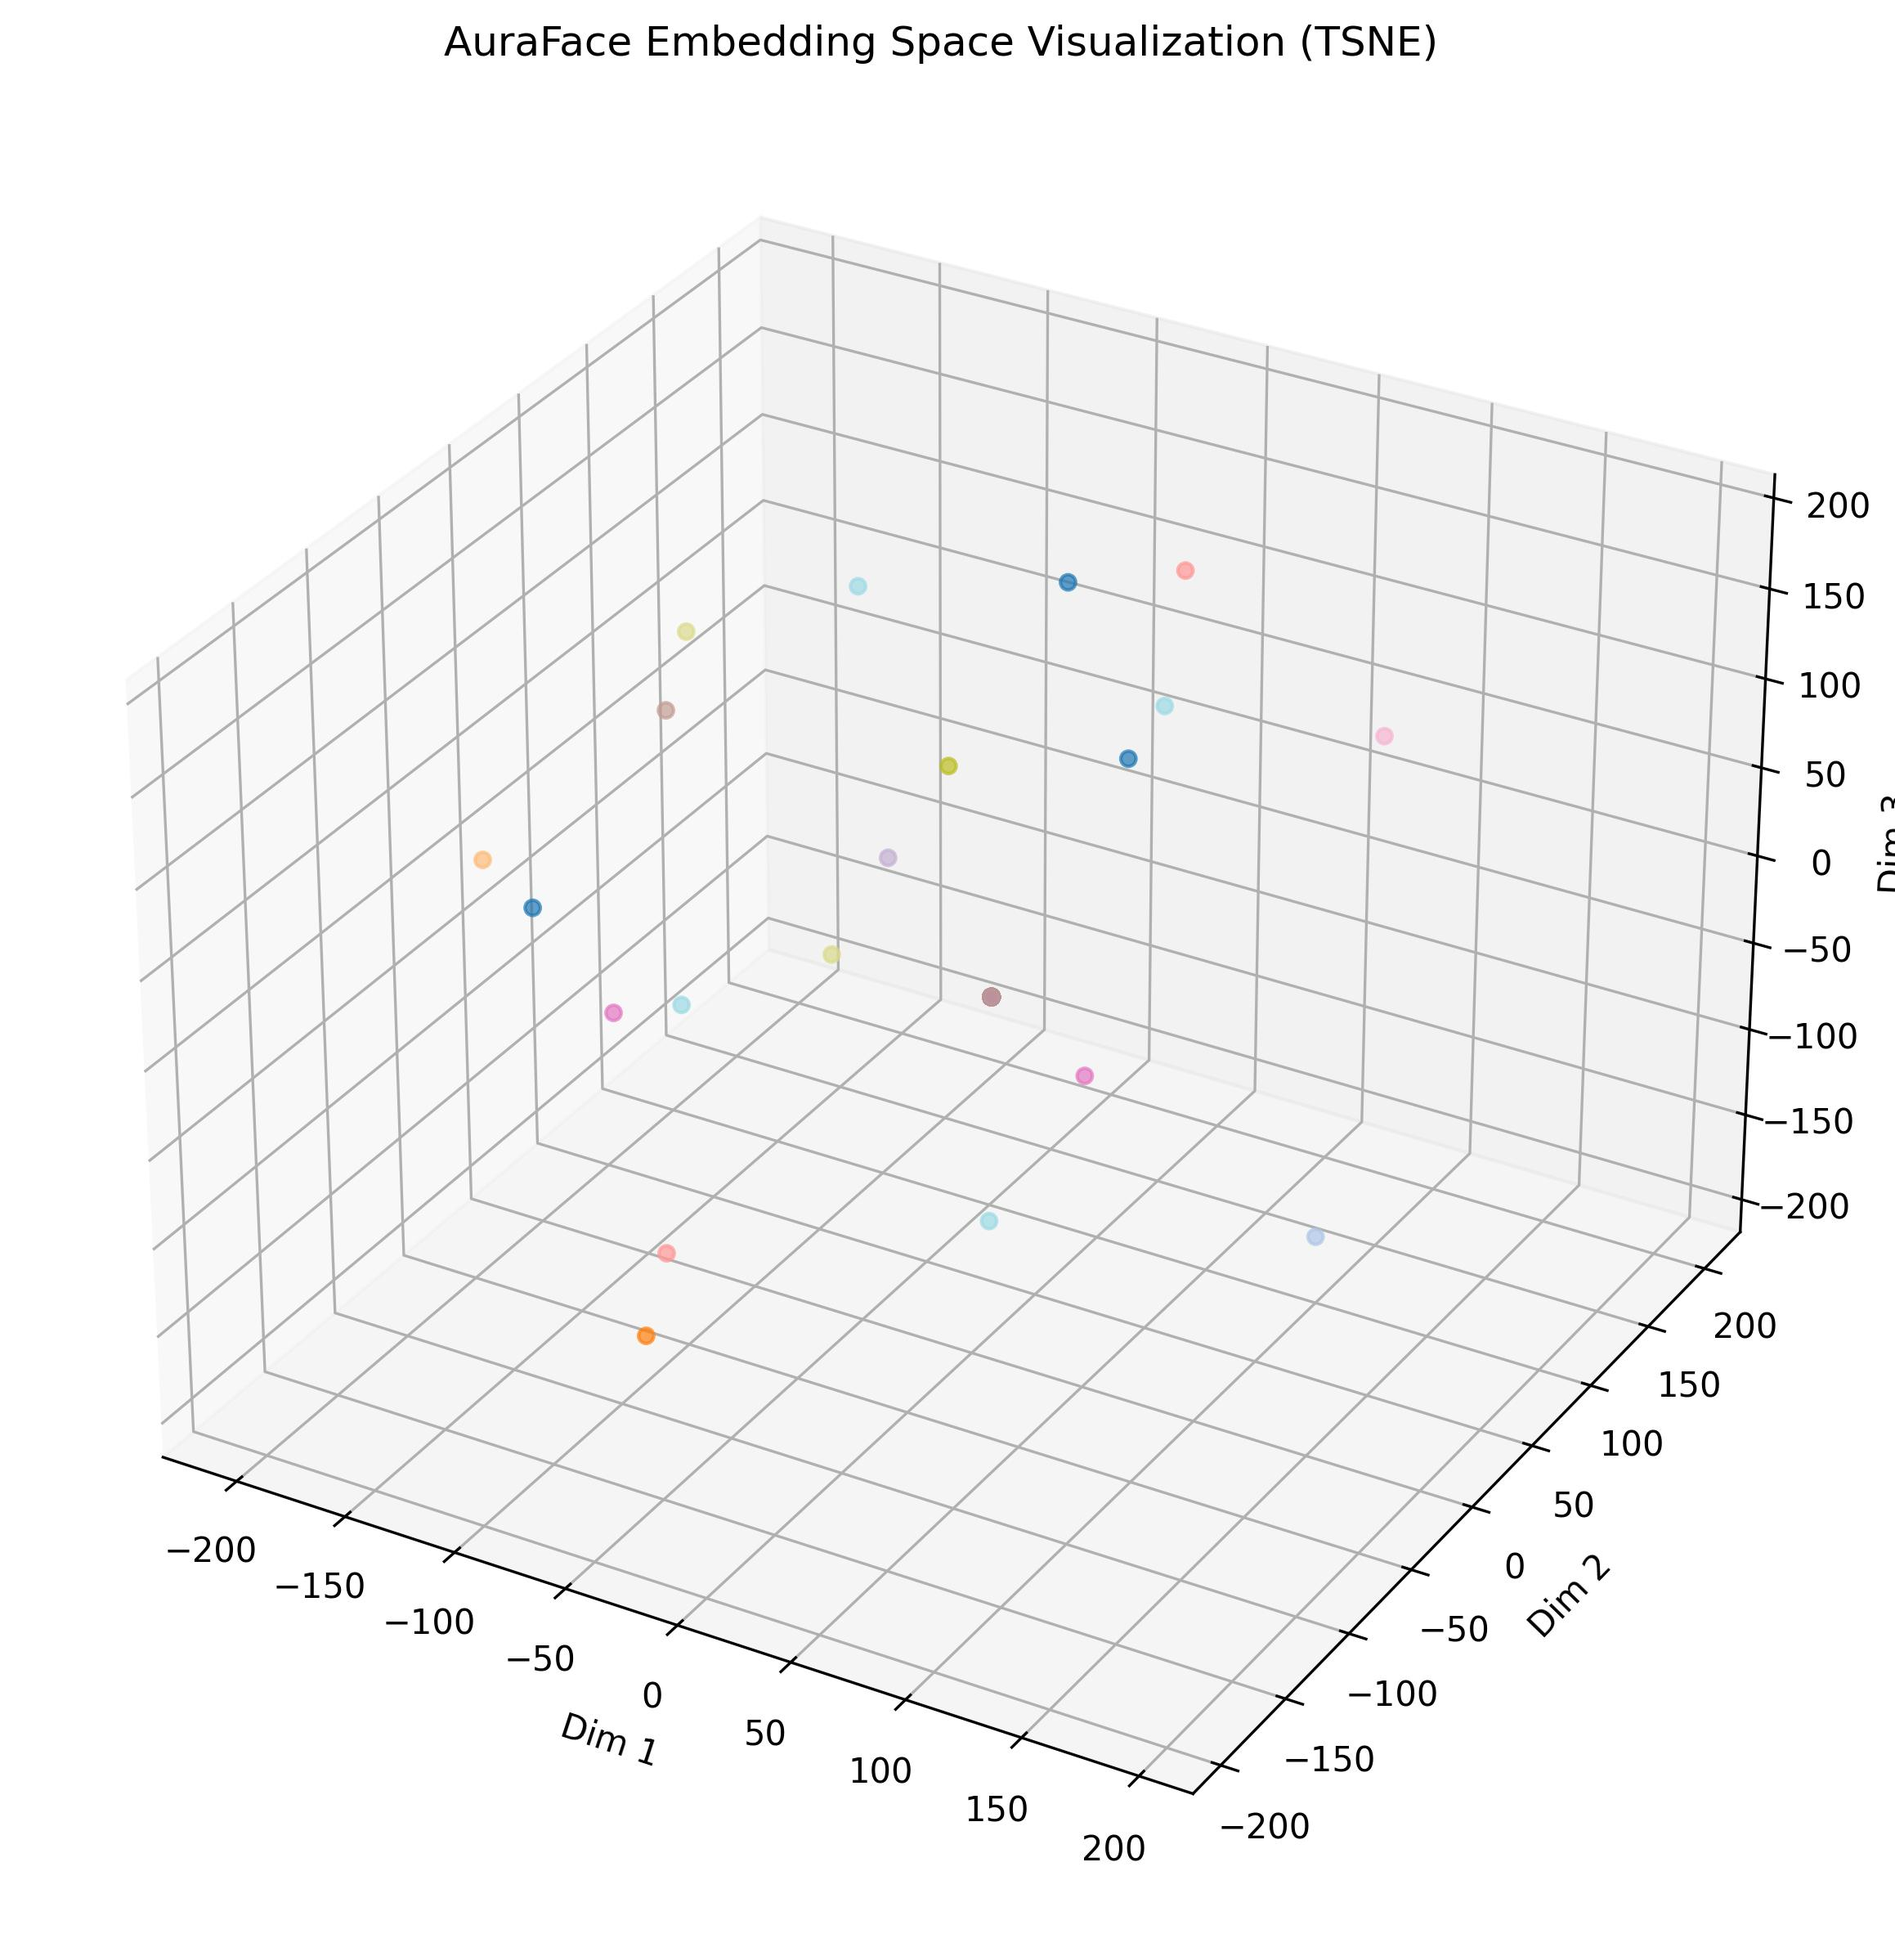
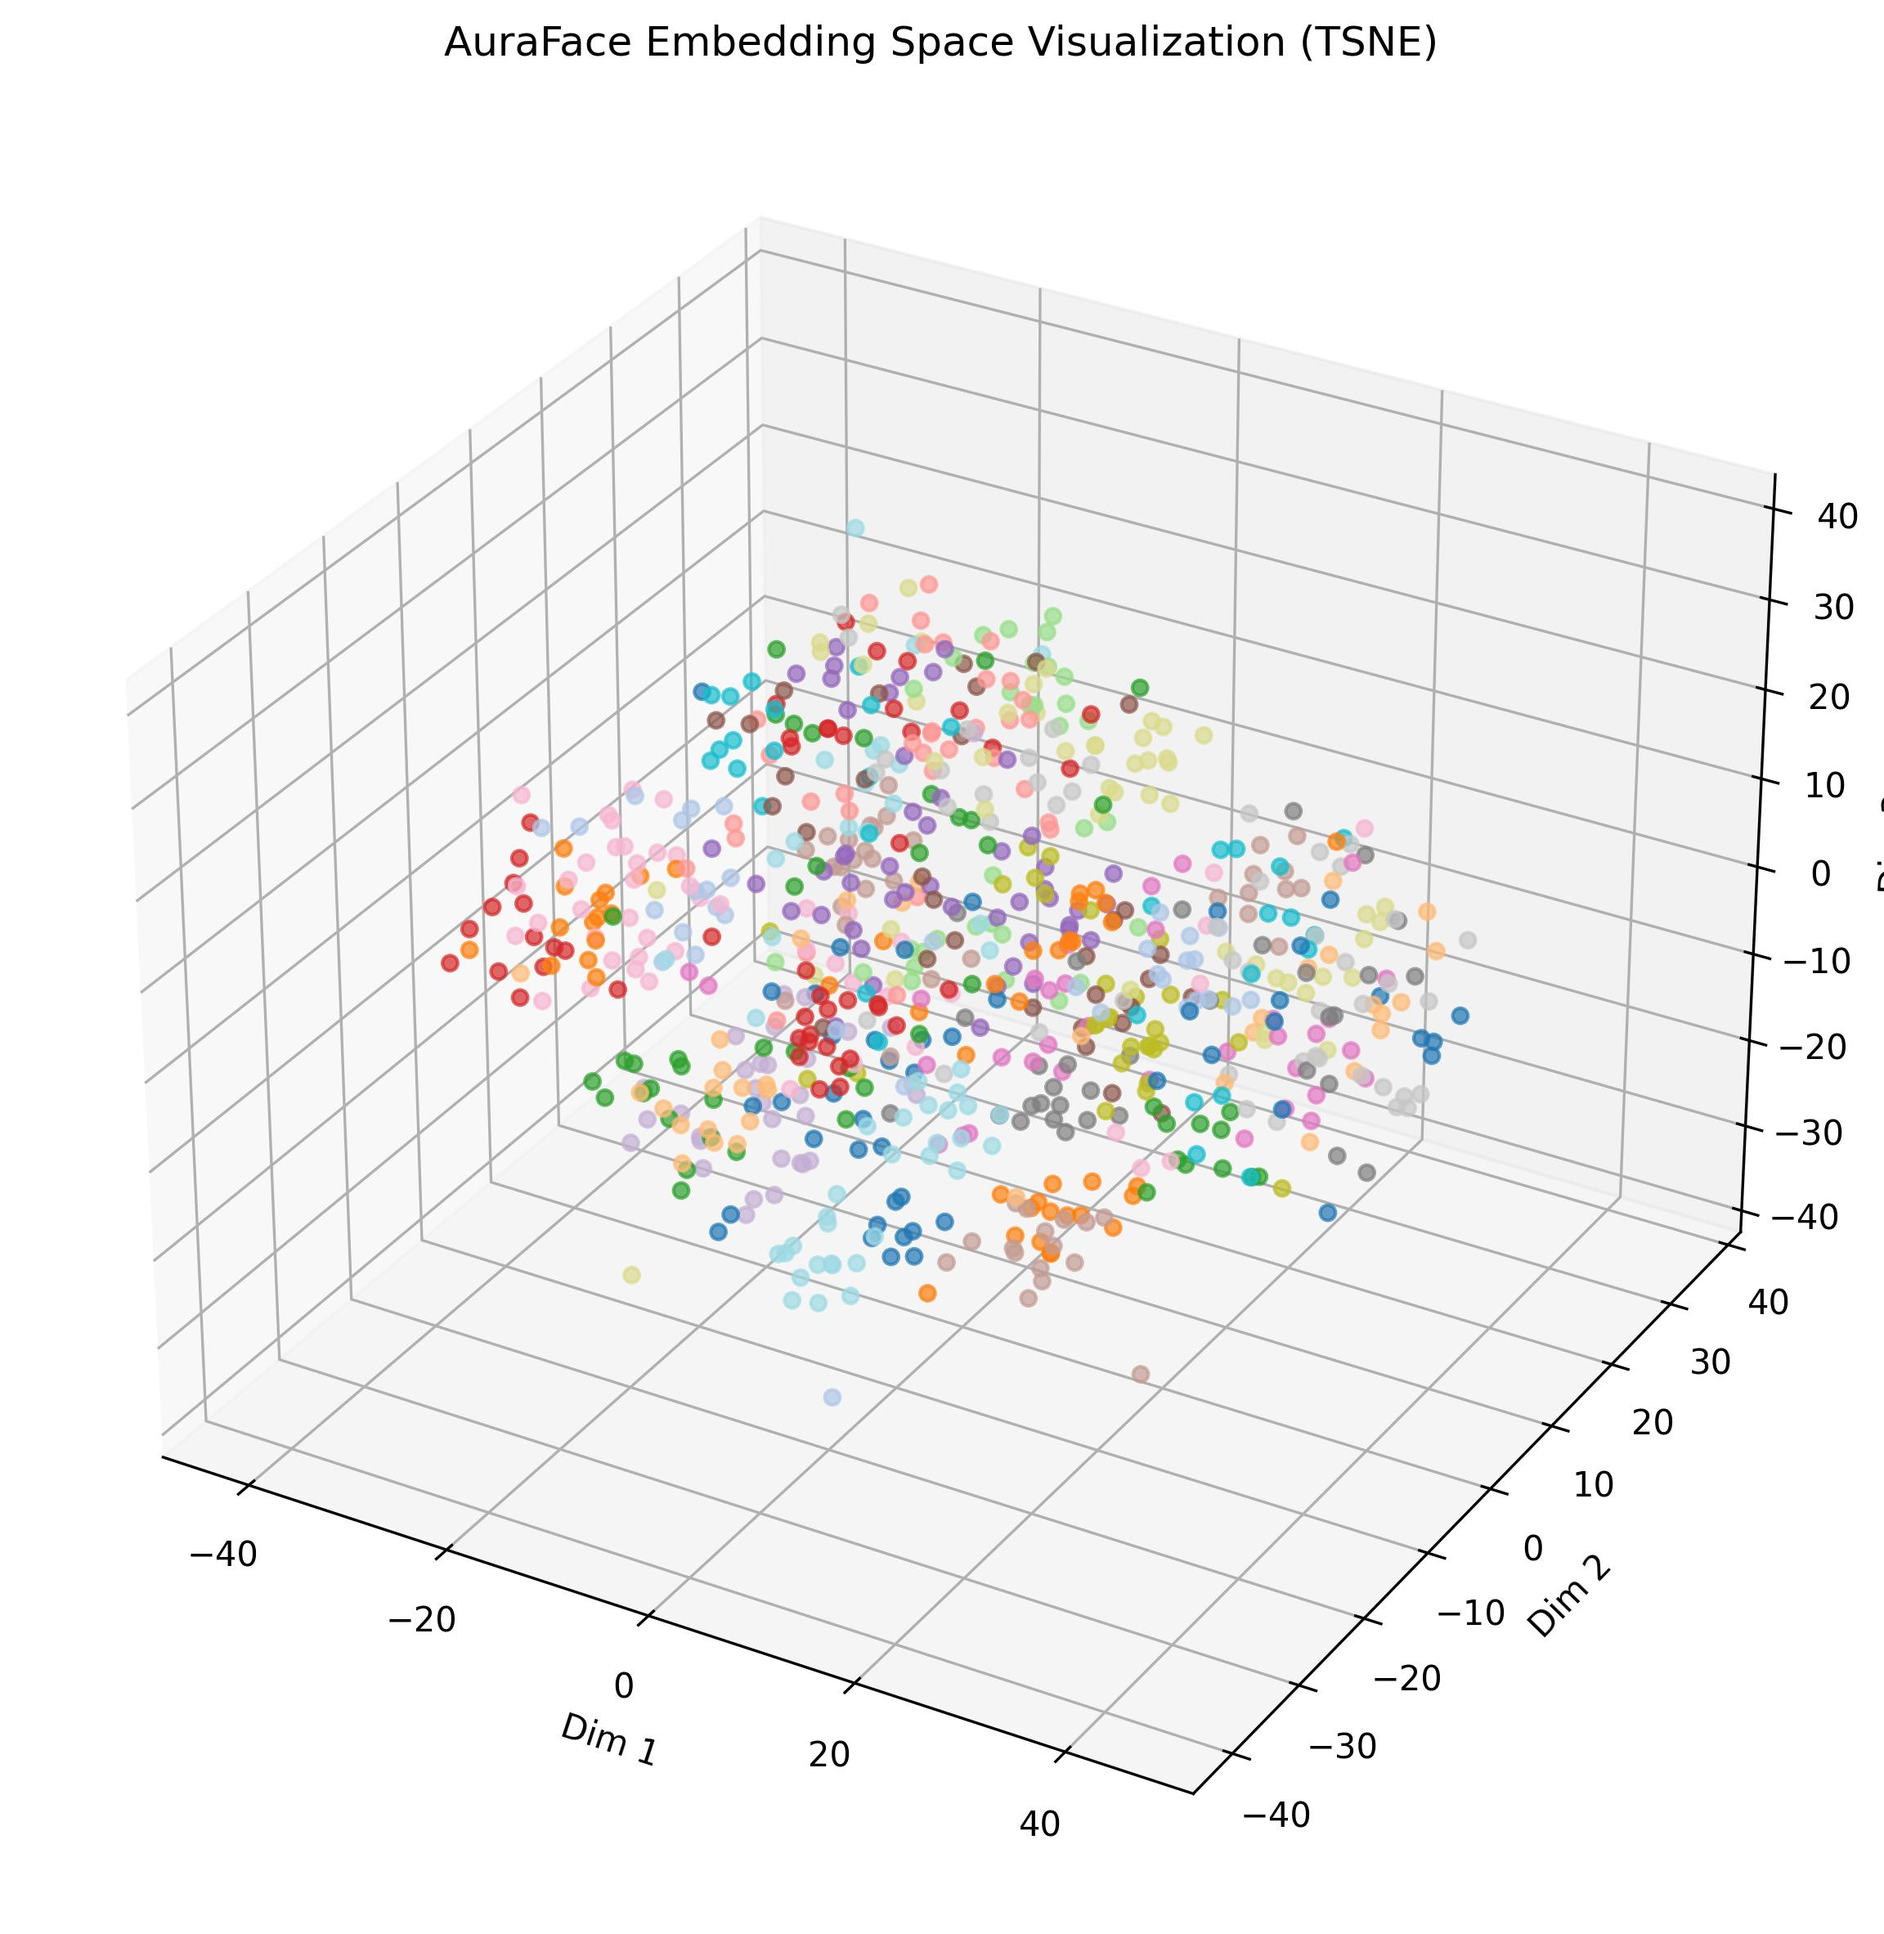
added visualization functions + updated outputs

diff --git a/face2label/visualizations/vis_utils.py b/face2label/visualizations/vis_utils.py
@@ -5,9 +5,17 @@ from sklearn.decomposition import PCA
 from sklearn.manifold import TSNE
 from mpl_toolkits.mplot3d import Axes3D
 from pathlib import Path
+from PIL import Image
+import random
+import torch
 
 # Get repo root 
 REPO_ROOT = Path(__file__).resolve().parents[2]
+
+
+# -----------------------------------------------------
+# FEATURE SPACE VISUALIZATION
+# -----------------------------------------------------
 
 def visualize_embeddings(embeddings, labels, method="tsne"):
     X = np.array(embeddings)
@@ -54,3 +62,102 @@ def visualize_embeddings(embeddings, labels, method="tsne"):
     print(f"Saved to: {save_path}")
 
     plt.close(fig)  
+
+# -----------------------------------------------------
+# MODEL PREDICTIONS VISUALIZATION
+# -----------------------------------------------------
+
+def visualize_predictions(model, extractor, samples, label2idx, device, n=5, save_path=True):
+    """
+    Visualize n random samples with their true and predicted artist labels.
+    """
+
+    idx2label = {v: k for k, v in label2idx.items()}
+    model.eval()
+
+    # Pick n random (image_path, true_label) pairs
+    flat_samples = [(path, artist) for image_paths, artist in samples for path in image_paths]
+    chosen = random.sample(flat_samples, n)
+
+    fig, axes = plt.subplots(1, n, figsize=(4 * n, 5))
+    if n == 1:
+        axes = [axes]
+
+    for ax, (path, true_artist) in zip(axes, chosen):
+        # Get image for display
+        img = Image.open(path).convert("RGB")
+
+        # Get embedding and predict
+        embedding = extractor.get_embedding(path)
+        if embedding is None:
+            embedding = np.zeros(512, dtype=np.float32)
+
+        with torch.no_grad():
+            tensor = torch.tensor(embedding, dtype=torch.float32).unsqueeze(0).to(device)
+            logits = model(tensor)
+            pred_idx = logits.argmax(dim=1).item()
+            confidence = torch.softmax(logits, dim=1).max().item()
+
+        pred_artist = idx2label[pred_idx]
+        correct = (pred_artist == true_artist)
+
+        ax.imshow(img)
+        ax.axis("off")
+        ax.set_title(
+            f"GT:   {true_artist}\nPred: {pred_artist} ({confidence:.0%})",
+            fontsize=9,
+            color="green" if correct else "red",
+            pad=6
+        )
+
+    plt.suptitle("Sample Predictions", fontsize=13, fontweight="bold")
+    plt.tight_layout()
+
+    if save_path:
+        output_dir = REPO_ROOT / "outputs"
+        save_dir = output_dir / "predictions.png"
+        plt.savefig(save_dir, dpi=300, bbox_inches="tight")
+
+# -----------------------------------------------------
+# VISUALIZE TOP 3 PREDICTED ARTISTS
+# -----------------------------------------------------
+
+def predict_top3(image_path, model, extractor, idx2label, label2idx, dataset, device):
+    model.eval()
+
+    embedding = extractor.get_embedding(image_path)
+    if embedding is None:
+        print("No face detected in image.")
+        return
+
+    with torch.no_grad():
+        tensor = torch.tensor(embedding, dtype=torch.float32).unsqueeze(0).to(device)
+        probs = torch.softmax(model(tensor), dim=1).squeeze().cpu()
+
+    top3_probs, top3_idxs = torch.topk(probs, 3)
+    top3_artists = [idx2label[i.item()] for i in top3_idxs]
+    top3_probs = top3_probs.numpy()
+
+    # Get one representative image per top3 artist from the dataset
+    artist2paths = {artist: paths for paths, artist in dataset.samples}
+
+    fig, axes = plt.subplots(1, 4, figsize=(16, 4))
+
+    # Input image
+    axes[0].imshow(Image.open(image_path).convert("RGB"))
+    axes[0].set_title("Input", fontsize=11, fontweight="bold")
+    axes[0].axis("off")
+
+    # Top 3 artist images
+    for i, (artist, prob) in enumerate(zip(top3_artists, top3_probs)):
+        rep_image = Image.open(artist2paths[artist][0]).convert("RGB")
+        axes[i + 1].imshow(rep_image)
+        axes[i + 1].set_title(f"{artist}\n{prob:.1%}", fontsize=10,
+                               color="green" if i == 0 else "black")
+        axes[i + 1].axis("off")
+
+    plt.suptitle("Top 3 Most Similar Artists", fontweight="bold")
+
+    output_dir = REPO_ROOT / "outputs"
+    save_dir = output_dir / "top3_predictions.png"
+    plt.savefig(save_dir, dpi=300, bbox_inches="tight")

diff --git a/face2label/models/train_auraface.py b/face2label/models/train_auraface.py
@@ -58,6 +58,8 @@ def main():
     artist_names = [name for _, name in base_dataset.samples]
     unique_artists = sorted(set(artist_names))
     label2idx = {name: i for i, name in enumerate(unique_artists)}
+    idx2label = {v: k for k, v in label2idx.items()}
+
     num_classes = len(unique_artists)
     print(f"Artists: {num_classes}")
 
@@ -71,6 +73,7 @@ def main():
     print("Total Embeddings:", len(embeddings))
 
     # Visualize model embedding space
+    visualize_embeddings(embeddings, labels, method="tsne")
     visualize_embeddings(embeddings, labels, method="pca")
 
     X_train, X_val, y_train, y_val = train_test_split(embeddings, labels, test_size=0.2)
@@ -96,6 +99,29 @@ def main():
         epochs=EPOCHS,
         lr=LR,
         device=device,
+    )
+
+    # --- Visualize predictions ---
+    # comment this code if no inference or visualization is needed
+    visualize_predictions(
+        model=model,
+        extractor=extractor,
+        samples=base_dataset.samples,
+        label2idx=label2idx,
+        device=device,
+        n=5  
+    )
+
+    # --- Given an image, visualize top 3 predictions ---
+    # comment this code if no inference or visualization is needed
+    predict_top3(
+        image_path="/hhome/ps2g07/code/data/user2.jpg",
+        model=model,
+        extractor=extractor,
+        idx2label=idx2label,
+        label2idx=label2idx,
+        dataset=base_dataset,
+        device=device
     )
 
     return model
